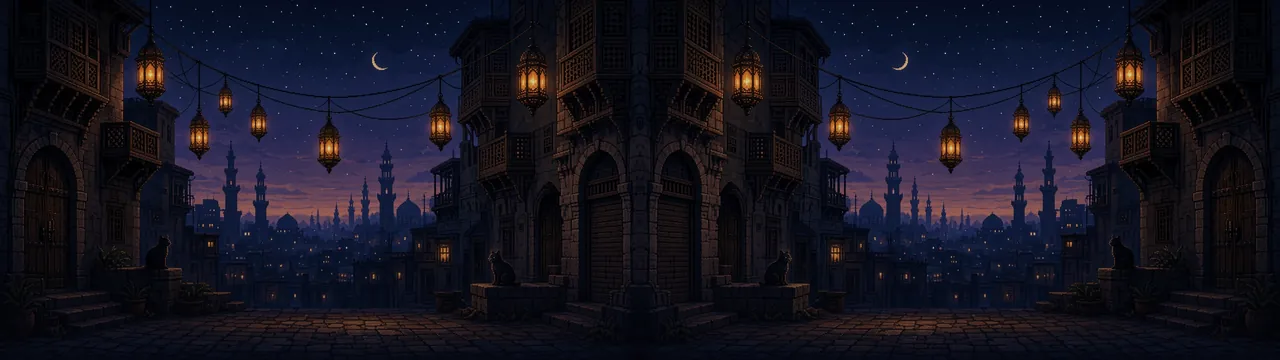
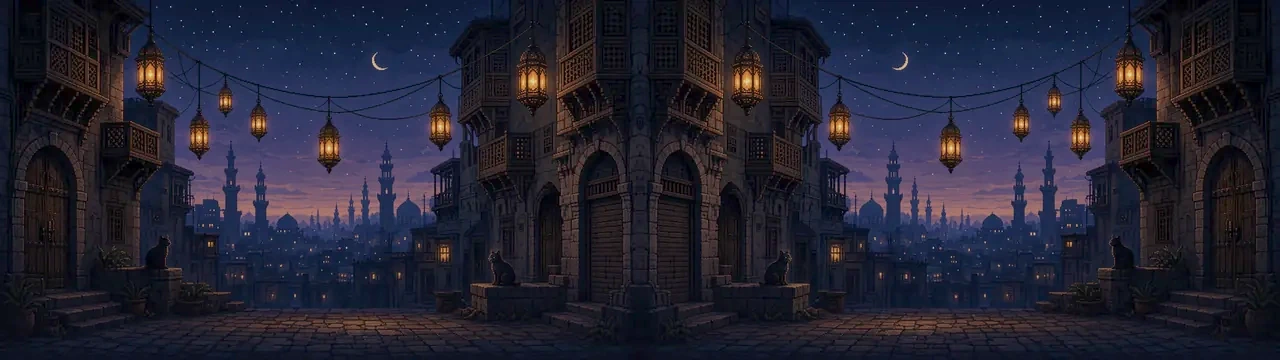
art: hero motion, dark backdrop readability and on-demand backgrounds (#30)
* art: animate courier scarf and satchel through hero poses

* art: lift dark backdrop detail without changing level geometry

* perf: load painted backdrops on demand with offline-safe fallback

---------

diff --git a/src/backdrops.ts b/src/backdrops.ts
@@ -1,0 +1,63 @@
+import type { Alley } from './game';
+const pending = new WeakMap<Alley, Set<number>>();
+/** Optional art must never hold up a level or offline play. Phaser keeps the
+ * generated fallback until the image is decoded, then swaps only this scene.
+ */
+export function requestBackdrop(scene: Alley, index: number) {
+  const key = `backdrop-${index}`;
+  if (scene.textures.exists(key)) return;
+  let queue = pending.get(scene);
+  if (!queue) {
+    queue = new Set();
+    pending.set(scene, queue);
+  }
+  if (queue.has(index)) return;
+  queue.add(index);
+  const event = `filecomplete-image-${key}`;
+  const clean = () => {
+    queue.delete(index);
+    scene.load.off(event, complete);
+    scene.load.off('loaderror', failed);
+  };
+  const failed = (file: { key: string }) => {
+    if (file.key === key) clean();
+  };
+  const complete = () => {
+    clean();
+    if (scene.level !== index || !scene.sys.isActive()) {
+      scene.textures.remove(key);
+      return;
+    }
+    const camera = scene.cameras.main;
+    const backdrop = scene.add
+      .tileSprite(0, 0, camera.width, 360, key)
+      .setOrigin(0)
+      .setScrollFactor(0)
+      .setDepth(-100)
+      .setData('factor', 0.1)
+      .setData('name', 'backdrop');
+    scene.layers = scene.layers.filter((layer) => {
+      if (['sky', 'far', 'mid'].includes(layer.getData('name'))) {
+        layer.destroy();
+        return false;
+      }
+      if (layer.getData('name') === 'near') layer.setAlpha(0.55);
+      return true;
+    });
+    scene.layers.unshift(backdrop);
+  };
+  scene.load.once(event, complete);
+  scene.load.on('loaderror', failed);
+  scene.load.image(key, `bg/l${index + 1}.webp`);
+  if (!scene.load.isLoading()) scene.load.start();
+}
+/** Run after old display objects are gone; retain only the boot/current image. */
+export function releaseBackdrops(scene: Alley) {
+  for (const key of scene.textures.getTextureKeys())
+    if (
+      /^backdrop-\d+$/.test(key) &&
+      key !== 'backdrop-0' &&
+      key !== `backdrop-${scene.level}`
+    )
+      scene.textures.remove(key);
+}

diff --git a/src/characters.ts b/src/characters.ts
@@ -243,6 +243,34 @@ function hero(raw: Pixels, big: boolean, pose: HeroPose) {
     p.r(hand[0] - 1, hand[1] + 2, 2, 1, P.skinShade);
     p.r(hand[0] + 2, hand[1], 1, 1, P.skinLight);
   };
+  // The courier's scarf trails opposite the run. Draw behind the body so
+  // its moving outline adds life without changing the collision silhouette.
+  const flutter = run
+    ? [0, -1, -2, -1, 1, 2, 1, 0][f]
+    : pose === 'fall'
+      ? -3
+      : pose === 'rise'
+        ? 2
+        : 0;
+  const tail = run || pose === 'rise' || pose === 'fall' ? 3 : 7;
+  p.poly(
+    [
+      [x(13), head + 22],
+      [x(8), head + 22],
+      [x(tail), head + 24 + flutter],
+      [x(tail + 2), head + 26 + flutter],
+      [x(8), head + 25],
+      [x(13), head + 24],
+    ],
+    P.scarfShade,
+    true,
+  );
+  p.line(
+    [x(12), head + 22],
+    [x(tail + 1), head + 24 + flutter],
+    1,
+    P.scarfLight,
+  );
   arm([x(11), top + 2], farHand, false);
   let backFoot: Point = [11, 62],
     frontFoot: Point = [21, 62];
@@ -369,10 +397,14 @@ function hero(raw: Pixels, big: boolean, pose: HeroPose) {
   }
   p.line([x(21), top + 1], [x(11), waist - 2], 2, P.orangeShade);
   p.line([x(20), top + 1], [x(10), waist - 2], 1, P.orangeLight);
-  p.box(x(6), waist - 6, 6, 6, P.orange);
-  p.r(x(6), waist - 6, 6, 2, P.orangeLight);
-  p.r(x(10), waist - 3, 2, 3, P.orangeShade);
-  p.r(x(8), waist - 3, 1, 1, P.creamLight);
+  const bagBob = run ? [0, -1, -1, 0, 1, 0, -1, 0][f] : 0;
+  p.box(x(5), waist - 6 + bagBob, 7, 7, P.orangeShade);
+  p.r(x(5), waist - 6 + bagBob, 7, 3, P.orange);
+  p.r(x(5), waist - 6 + bagBob, 6, 1, P.orangeLight);
+  p.r(x(6), waist - 3 + bagBob, 4, 3, P.orange);
+  p.r(x(7), waist - 3 + bagBob, 2, 2, P.orangeLight);
+  p.r(x(8), waist - 2 + bagBob, 1, 1, P.ink);
+  p.r(x(6), waist + bagBob, 5, 1, P.orangeLight);
   p.r(x(10), waist - 1, 12, 1, P.navyShade);
   p.r(x(16), waist - 1, 3, 1, P.orangeLight);
   arm([x(22), top + 2], nearHand, true);

diff --git a/src/level-build.ts b/src/level-build.ts
@@ -8,6 +8,7 @@ import { TILE } from './level-data';
 import { parseLevel } from './level-parse';
 import { bossBar } from './ui';
 import { sound } from './audio';
+import { requestBackdrop, releaseBackdrops } from './backdrops';
 import { prepareWorldArt } from './world-assets';
 import { releaseLevelTextures } from './level-textures';
 
@@ -17,6 +18,7 @@ export function loadLevel(scene: Alley) {
   scene.physics.world.colliders.destroy();
   scene.children.removeAll(true);
   releaseLevelTextures(scene.textures);
+  releaseBackdrops(scene);
   scene.layers = [];
   scene.lanterns = [];
   scene.moverList = [];
@@ -211,5 +213,6 @@ export function loadLevel(scene: Alley) {
   bossBar(false);
   scene.fitView();
   scene.updateHud();
+  requestBackdrop(scene, scene.level);
 }
 /** The normal camera: follow the hero with a little deadzone. */

diff --git a/src/game.ts b/src/game.ts
@@ -246,9 +246,7 @@ export class Alley extends Phaser.Scene {
   }
   preload() {
     // Painted backdrops (one per level), baked to 1280×360 mirrored loops.
-    LEVELS.forEach((_, i) =>
-      this.load.image(`backdrop-${i}`, `bg/l${i + 1}.webp`),
-    );
+    this.load.image('backdrop-0', 'bg/l1.webp');
     // Drawn creature art (bosses, enemies): replaces the procedural frames
     // with the same keys and sizes; see scripts/art.
     if (!location.search.includes('oldart')) {

diff --git a/scripts/art/grade-backdrops.py b/scripts/art/grade-backdrops.py
@@ -1,0 +1,12 @@
+"""Readable dark-scene backgrounds, preserving source art and mirrored loops.
+Requires Pillow. Rebuild only from the checked-in source, never a graded output.
+"""
+from pathlib import Path
+from PIL import Image
+
+ROOT = Path(__file__).resolve().parents[2]
+SOURCE = Path(__file__).with_name('backdrop-source')
+LUT = [round(255 * ((value / 255) ** 0.76)) for value in range(256)]
+for source in SOURCE.glob('l*.webp'):
+    image = Image.open(source).convert('RGB').point(LUT * 3)
+    image.save(ROOT / 'public' / 'bg' / source.name, 'WEBP', quality=92, method=6)

diff --git a/README.md b/README.md
@@ -114,4 +114,4 @@ Game code and original art/audio: MIT. See [LICENSE](LICENSE) and [CREDITS.md](C
 
 `npm run test:browser` also includes older detailed mechanic suites. Some still use timing-sensitive observations; they are not a substitute for a manual complete playthrough or real-phone performance testing. Never run `tests/session-live.mjs` with a real player's credentials as a routine CI test.
 
-Hero art is procedural in `src/characters.ts`. Baked creature frames in `public/sprites/creatures.png` and their JSON map take priority over procedural creature drawings; `?oldart` selects the fallback for comparison. World-specific art is generated on first visit through `src/world-assets.ts`. Painted backdrop files are still loaded at boot, intentionally preserving synchronous transitions and offline coverage until network lazy loading is implemented separately.
+Hero art is procedural in `src/characters.ts`. Baked creature frames in `public/sprites/creatures.png` and their JSON map take priority over procedural creature drawings; `?oldart` selects the fallback for comparison. World-specific art is generated on first visit through `src/world-assets.ts`. Only the first painted backdrop is decoded at boot. Later backdrops load on demand, with procedural art while loading or when unavailable. The offline worker still caches the small image files, so installed offline play keeps all worlds. Old decoded backdrops are released after level changes.
